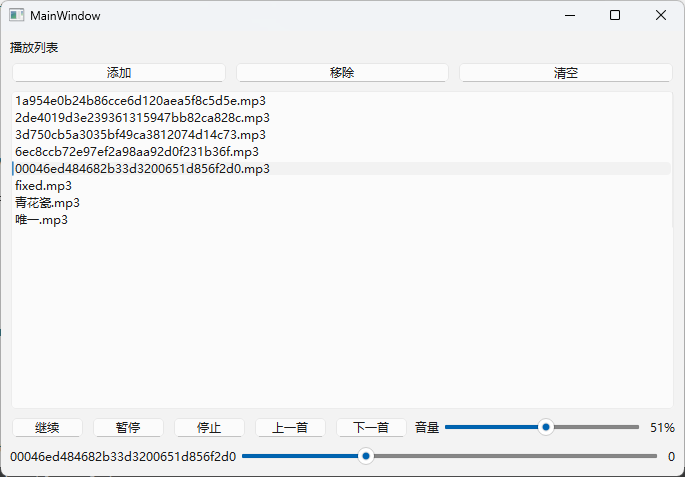
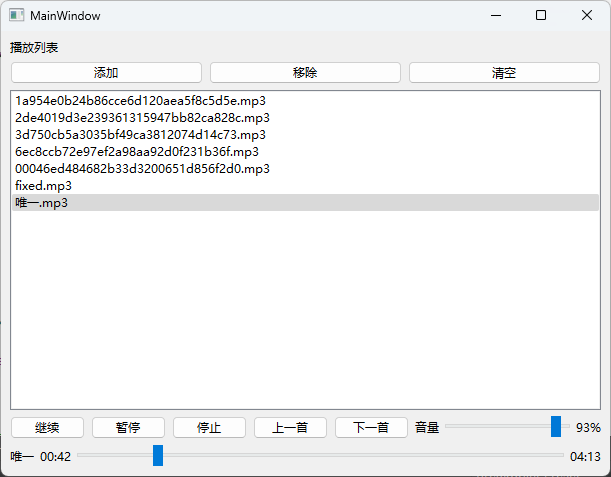
回退6.6.3版本解决播放问题
优化播放器逻辑

diff --git a/QPlayer/mainwindow.cpp b/QPlayer/mainwindow.cpp
@@ -14,63 +14,97 @@
 void MainWindow::init(){
     this->playerList = ui->playerList;
 
+    sliderIsPressed=false;
+
     QAudioDevice device = QMediaDevices::defaultAudioOutput();
-    qDebug()<<device.description();
-
-
     audio = new QAudioOutput(device, this);
-    audio->setVolume(50);  // 设置音量
+    audio->setVolume(0.1);  // 设置音量
 
     player = new QMediaPlayer(this);
-
     player->setAudioOutput(audio);
 
     ui->soundSlider->setRange(0,100);
+    ui->soundSlider->setValue(audio->volume()*100);  //当前音量
+    ui->vrateLab->setText(QString("%1%").arg(audio->volume()*100));
 
-    ui->soundSlider->setValue(audio->volume());  //当前音量
-
-    ui->vrateLab->setText(QString("%1%").arg(audio->volume()));
+    ui->songProSlider->setRange(0,100);
 
     index=-1;
 
 }
 
+QString MainWindow::getTime(qint64 value) {
+    int sec = value / 1000;
+    int min = sec / 60;
+    sec = sec % 60; // 保留分钟后的秒数
 
-
-
-void MainWindow::initSignal(){
-    connect(playerList, &QListWidget::itemDoubleClicked, this, [=](QListWidgetItem *item) {
-        if(player->isPlaying()){
-            player->stop();
-        }
-        qDebug()<<player->isAvailable();
-        QString filePath = item->data(Qt::UserRole).toString();
-        qDebug()<<"播放音乐"<<filePath;
-        this->player->setSource(QUrl::fromLocalFile(filePath));
-        this->player->play();  // 播放选中的音频文件
-        ui->songNameLab->setText(QFileInfo(filePath).baseName());
-        ui->nowTimeLab->setText(QString::number(player->duration()));
-        index=playerList->currentRow();
-    });
-
-
-    // 媒体时长变化，更新滑条范围
-    QObject::connect(player, &QMediaPlayer::durationChanged, [&](qint64 duration) {
-        ui->songProSlider->setRange(0, duration);
-    });
-
-    // 用户手动拖动滑条，改变播放进度
-    QObject::connect(ui->songProSlider, &QSlider::sliderMoved, player, &QMediaPlayer::setPosition);
-
-    connect(ui->soundSlider, &QSlider::valueChanged, [&](int value) {
-        player->audioOutput()->setVolume(value);
-        qDebug()<<value;
-        ui->vrateLab->setText(QString("%1%").arg(value));
-    });
+    return QString("%1:%2")
+        .arg(min, 2, 10, QChar('0'))
+        .arg(sec, 2, 10, QChar('0'));
 }
 
 
 
+
+void MainWindow::startplayer(QListWidgetItem *item){
+    if(!player->isAvailable()){
+        return;
+    }
+
+    filePath = item->data(Qt::UserRole).toString();
+    this->player->setSource(QUrl::fromLocalFile(filePath));
+    this->player->play();
+    index=playerList->currentRow();
+}
+
+void MainWindow::updatePlayerInfo(QMediaPlayer::MediaStatus statue){
+    if(statue==QMediaPlayer::MediaStatus::LoadedMedia){
+        ui->nowTimeLab->setText(getTime(player->duration()));
+    }
+}
+
+void MainWindow::updateSlider(qint64 value) {
+    if (sliderIsPressed) {
+        return; // 拖动时，播放器更新忽略
+    }
+
+    int v = value * 100 / player->duration();
+    ui->startTimeLab->setText(getTime(value));
+    ui->songProSlider->setSliderPosition(v); // 仅在非拖动时更新
+}
+
+
+void MainWindow::initSignal(){
+    connect(playerList, &QListWidget::itemDoubleClicked, this, &MainWindow::startplayer);
+
+    connect(player, &QMediaPlayer::positionChanged, this, &MainWindow::updateSlider);
+
+    connect(ui->songProSlider, &QSlider::sliderPressed, this, [=]() {
+        sliderIsPressed = true;
+    });
+
+    connect(ui->songProSlider, &QSlider::sliderMoved, this, [=](int pos) {
+        qint64 duration = player->duration();
+        qint64 newPos = static_cast<qint64>(pos) * duration / 100; // 转换为实际时间位置
+        player->setPosition(newPos);
+    });
+
+    connect(ui->songProSlider, &QSlider::sliderReleased, this, [=]() {
+        sliderIsPressed = false;
+    });
+
+    connect(ui->soundSlider, &QSlider::valueChanged, [&](int value) {
+        player->audioOutput()->setVolume(value/100.0);
+        ui->vrateLab->setText(QString("%1%").arg(value));
+    });
+
+    connect(player,&QMediaPlayer::mediaStatusChanged,this,&MainWindow::updatePlayerInfo);   //加载好更新歌曲信息
+
+    connect(player,&QMediaPlayer::sourceChanged,this,[=](){     //设置源更新
+          ui->songNameLab->setText(QFileInfo(filePath).baseName());
+          ui->startTimeLab->setText("00:00");
+    });
+}
 
 MainWindow::MainWindow(QWidget *parent)
     : QMainWindow(parent)
@@ -103,6 +137,7 @@ void MainWindow::on_addBtn_clicked()
     }
     if(index<0){
         index=0;
+        ui->playerList->setCurrentRow(index);
     }
 }
 
@@ -110,7 +145,11 @@ void MainWindow::on_addBtn_clicked()
 void MainWindow::on_removeBtn_clicked()
 {
     QListWidgetItem*item=playerList->currentItem();
+    int curr=playerList->currentRow();
     if(item){
+        if(index==curr){
+            while(!on_nextBtn_clicked());
+        }
         delete item;
     }
 }
@@ -118,13 +157,16 @@ void MainWindow::on_removeBtn_clicked()
 
 void MainWindow::on_clearBtn_clicked()
 {
+    if (player->playbackState() != QMediaPlayer::StoppedState) {
+        player->stop();
+    }
     playerList->clear();  //清空
 }
 
 
 void MainWindow::on_conBtn_clicked()
 {
-    if(player->playbackRate()==QMediaPlayer::PausedState){
+    if(player->playbackState()==QMediaPlayer::PausedState){
         player->play();
     }
 }
@@ -144,7 +186,7 @@ void MainWindow::on_stopBtn_clicked()
 }
 
 
-void MainWindow::on_preBtn_clicked()
+QListWidgetItem * MainWindow::on_preBtn_clicked()   //上一首
 {
     int pre = index - 1;
 
@@ -156,13 +198,16 @@ void MainWindow::on_preBtn_clicked()
 
     if (item) {
         index = pre;
+        playerList->setCurrentRow(index);
         emit playerList->itemDoubleClicked(item);
+        return item;
     }
+    return nullptr;
 }
 
 
 
-void MainWindow::on_nextBtn_clicked()
+QListWidgetItem * MainWindow::on_nextBtn_clicked()     //下一首
 {
     int next=index+1;
 
@@ -174,8 +219,10 @@ void MainWindow::on_nextBtn_clicked()
 
     if (item) {
         index = next;
+        playerList->setCurrentRow(index);
         emit playerList->itemDoubleClicked(item);
+        return item;
     }
-
+    return nullptr;
 }
 

diff --git a/QPlayer/mainwindow.h b/QPlayer/mainwindow.h
@@ -33,19 +33,24 @@ private slots:
 
     void on_stopBtn_clicked();
 
-    void on_preBtn_clicked();
+    QListWidgetItem * on_preBtn_clicked();
 
-    void on_nextBtn_clicked();
+    QListWidgetItem * on_nextBtn_clicked();
 
+    void startplayer(QListWidgetItem *item);
+
+    void updatePlayerInfo(QMediaPlayer::MediaStatus statue);
+    void updateSlider(qint64 value);
 private:
     Ui::MainWindow *ui;
-
+    bool sliderIsPressed;
     QMediaPlayer * player;
     QListWidget* playerList;
     QAudioOutput* audio;   //输出播放
-
+    QString filePath;
     int index;
     void init();
     void initSignal();
+    QString getTime(qint64 value);
 };
 #endif // MAINWINDOW_H
